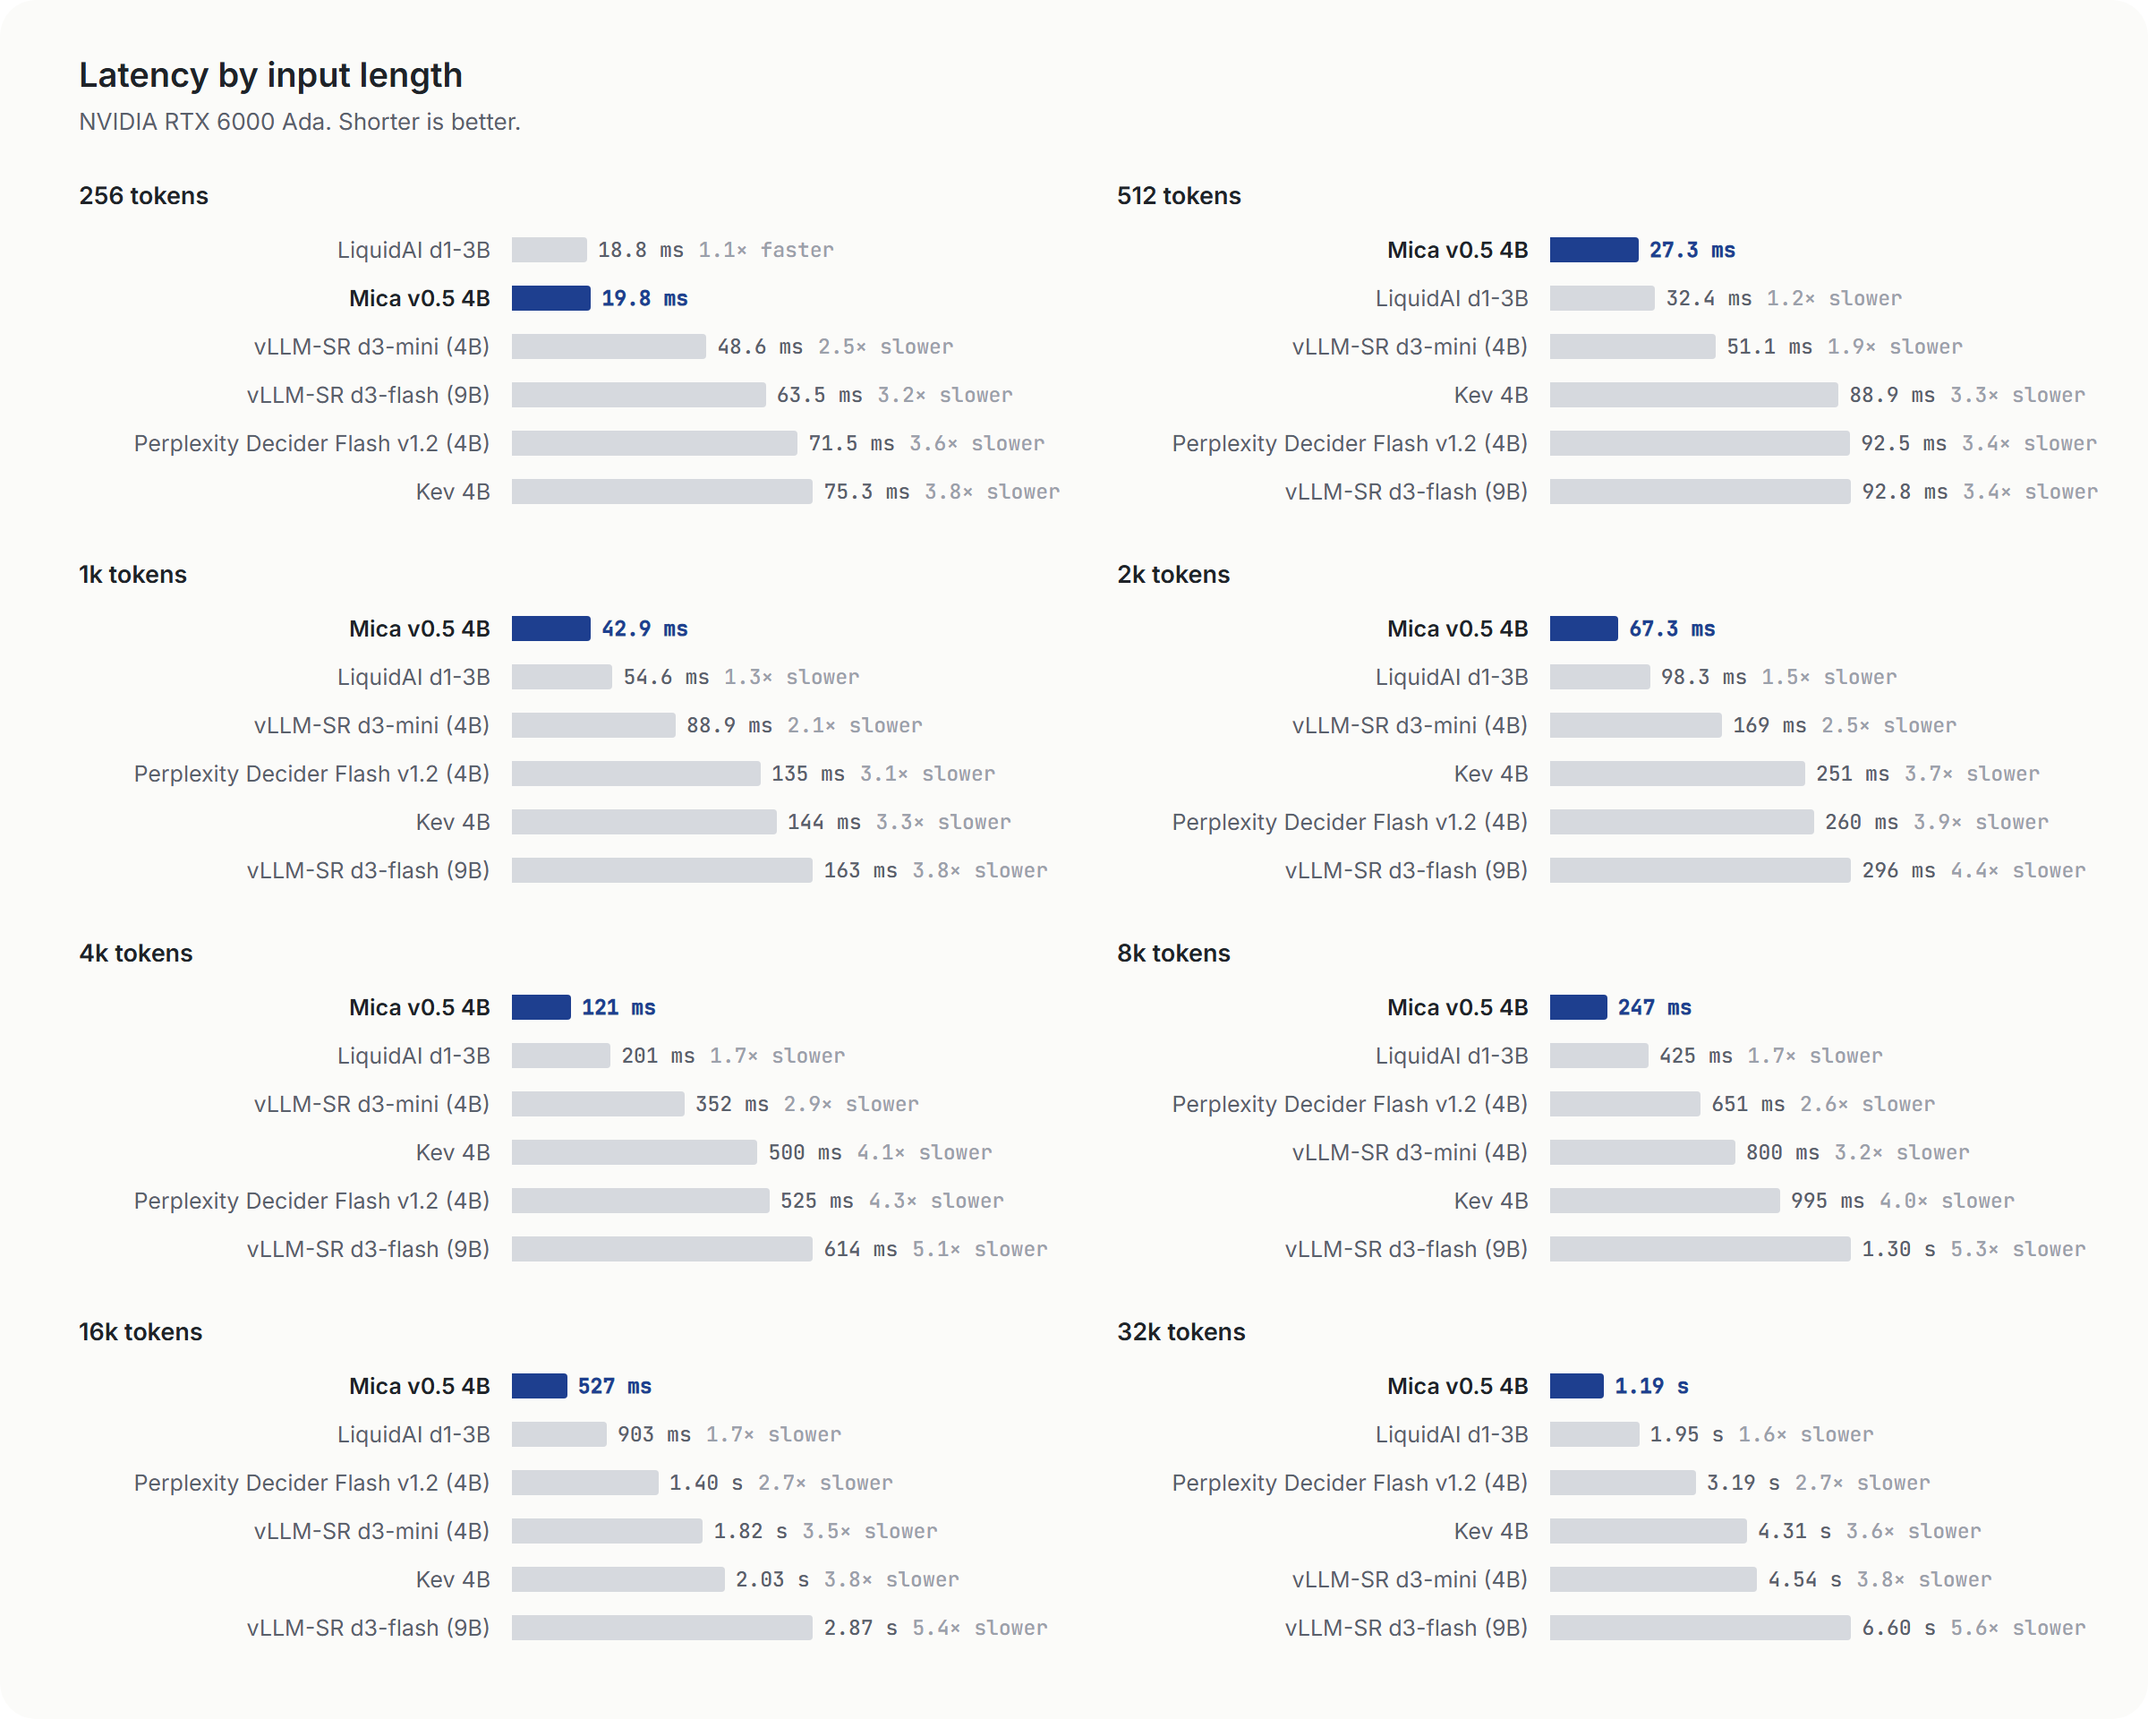
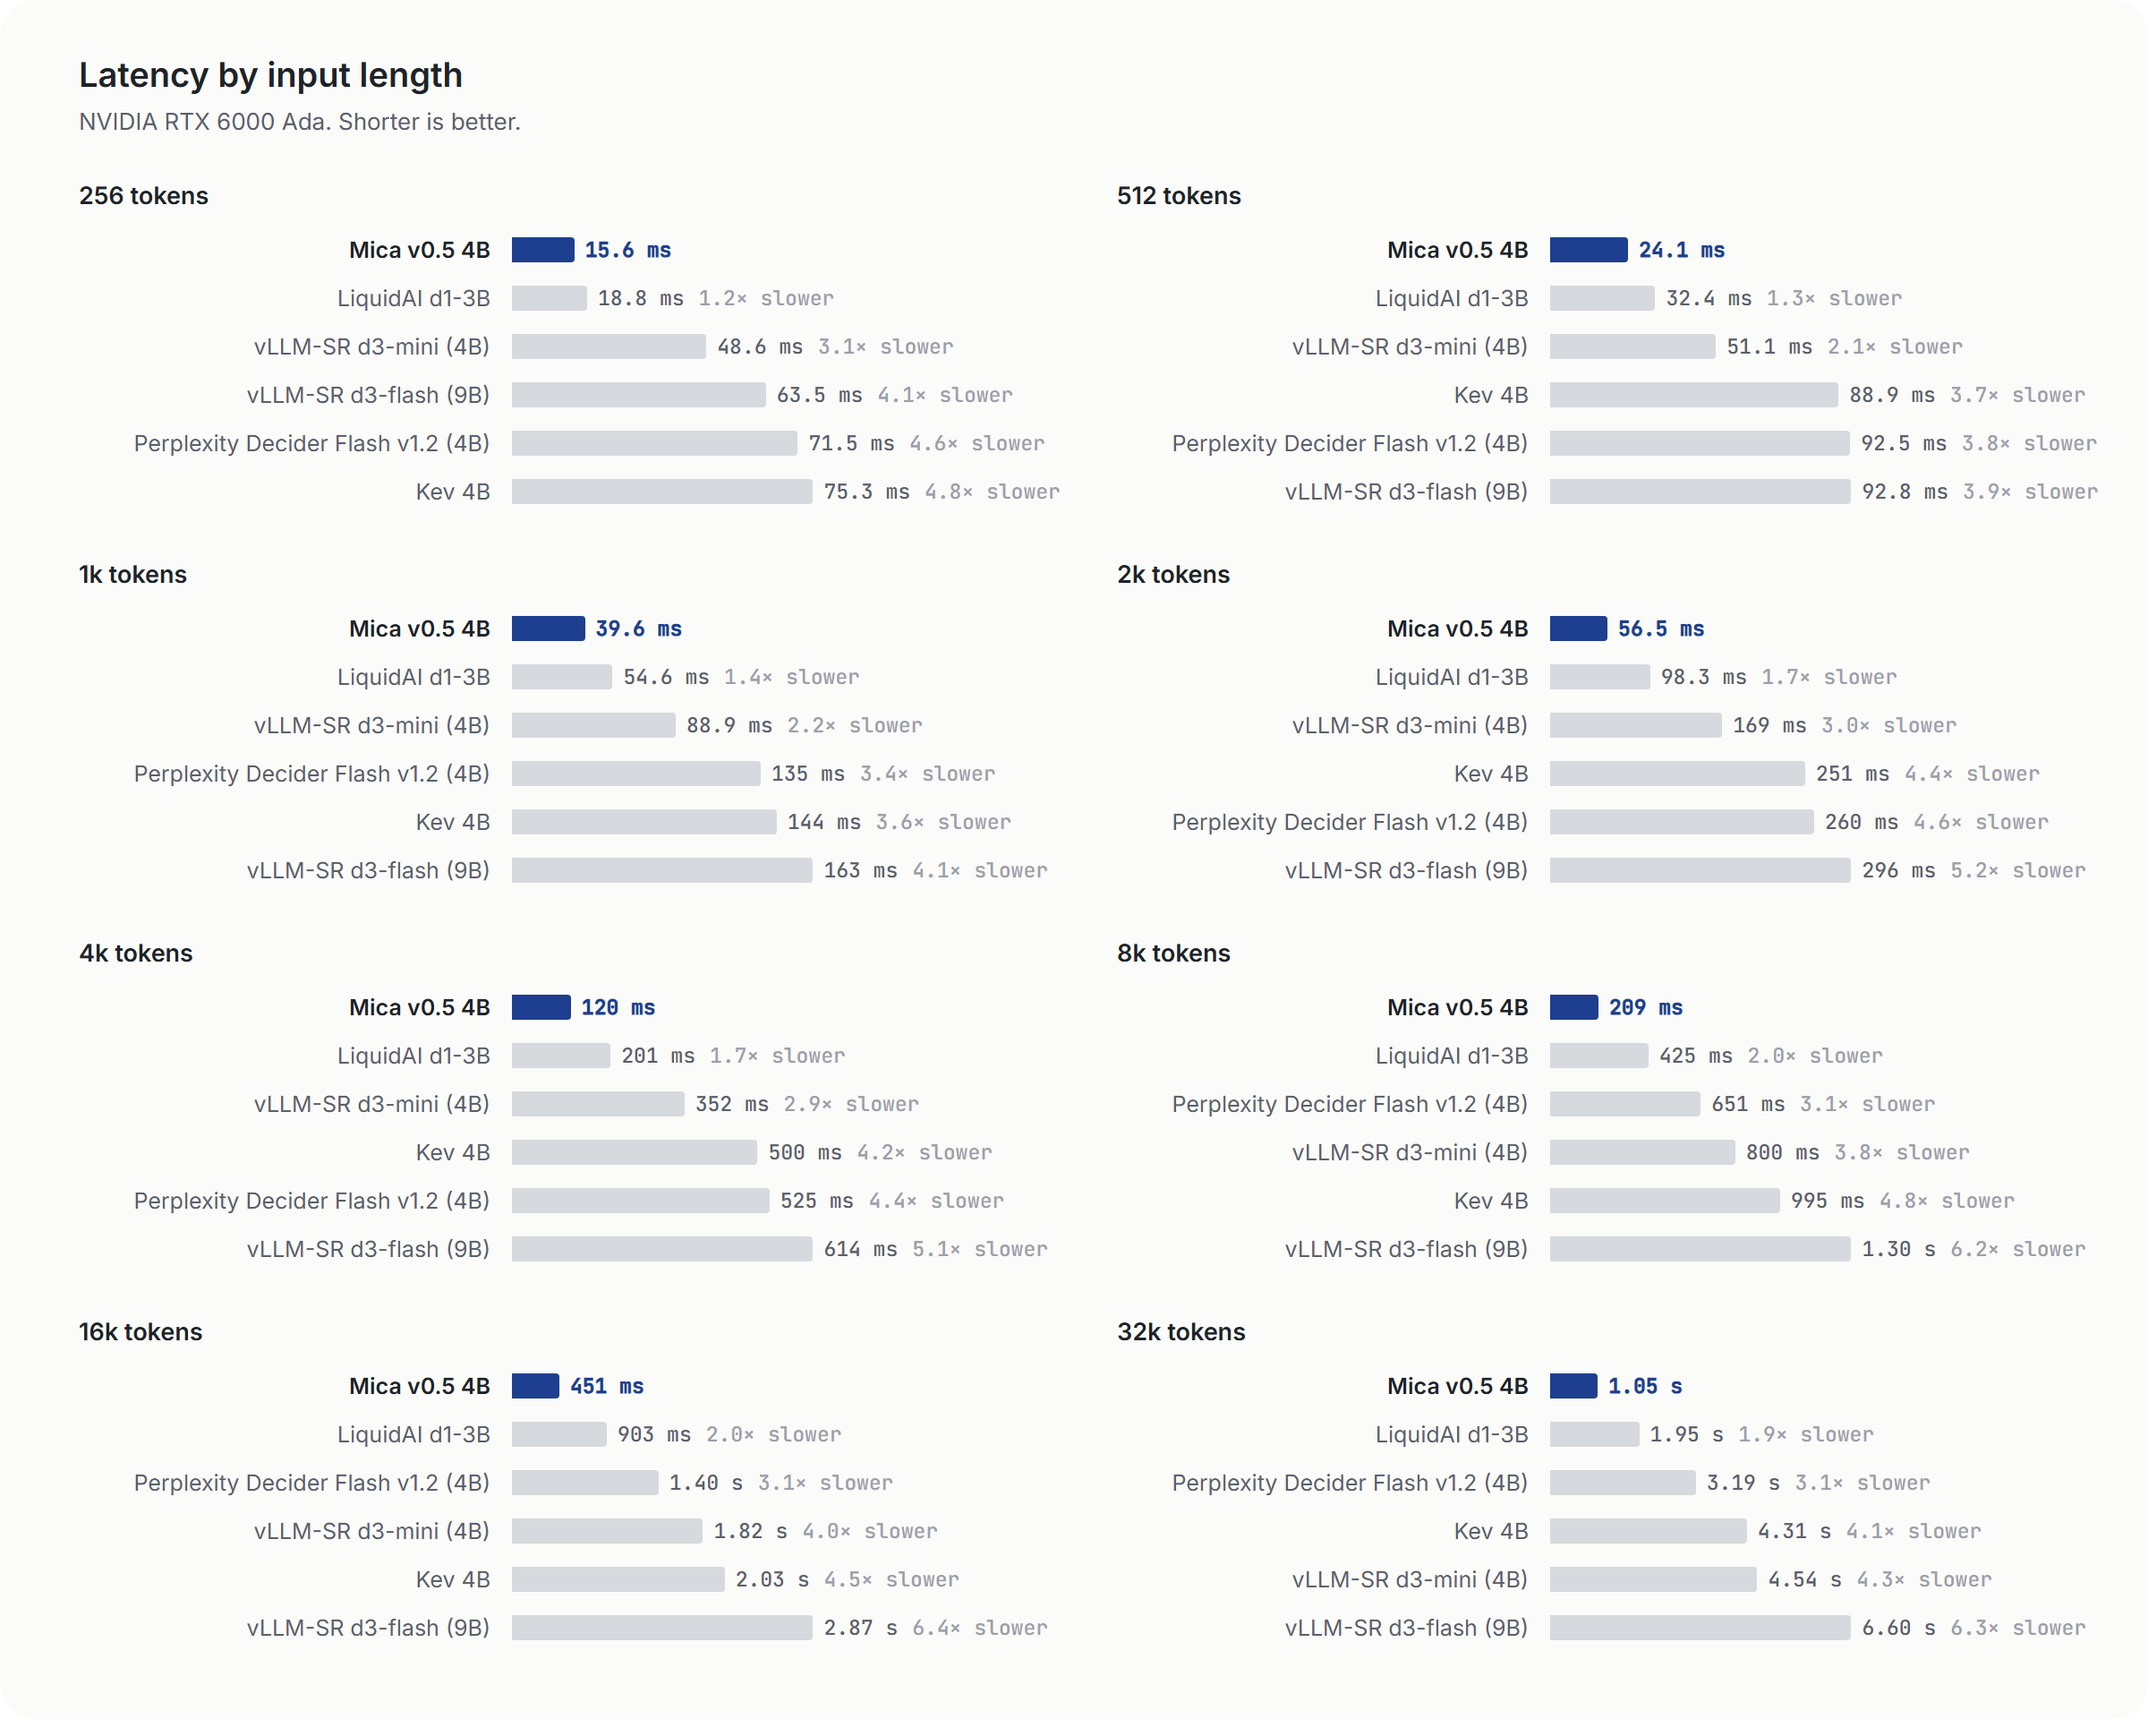
README: speed numbers from the released runtime
Latency table and charts now use the 0eecf32 runtime measured with the
same tool as the other models on one RTX 6000 Ada: 15.6 ms at 256
tokens (was 19.8), 1,046 ms at 32k (was 1,186). Start-time sentence
updated to the measured range.

diff --git a/README.md b/README.md
@@ -98,7 +98,7 @@ Linux commands above in WSL2.
 
 INT8 runs on compute capability 8.0 and newer (RTX 30/40/50 series, RTX A-series and Ada workstation cards, L4, L40S,
 A100, H100, H200, B200); other GPUs fall back to bfloat16 by themselves. The first start downloads the INT8 weights (about
-4.9 GB) into `--state-dir` (default `~/.cache/mica_runtime`; `--model` points at weights you already have), loads the kernel settings shipped for common GPUs (`--kernel-tune pinned`, the default; `full` tunes every kernel on this GPU instead), printing each stage, and saves its state there. The server answers as soon as it prints `Ready`; CUDA graphs are then captured in the background while it is idle, and until they are ready a request can wait up to about 0.7 s. On a GPU without shipped settings it starts with the closest GPU's settings and, after 30 s idle, tunes one kernel at a time for this GPU and saves the result. On an RTX 6000 Ada the first start took 26 s after the download and later starts with the same `--state-dir` 14 s, so keep `--state-dir` on a persistent disk. Kernel compilation is CPU-bound, so a host whose CPU is shared and fully loaded starts much more slowly. The longest input is
+4.9 GB) into `--state-dir` (default `~/.cache/mica_runtime`; `--model` points at weights you already have), loads the kernel settings shipped for common GPUs (`--kernel-tune pinned`, the default; `full` tunes every kernel on this GPU instead), printing each stage, and saves its state there. The server answers as soon as it prints `Ready`; CUDA graphs are then captured in the background while it is idle, and until they are ready a request can wait up to about 0.7 s. On a GPU without shipped settings it starts with the closest GPU's settings and, after 30 s idle, tunes one kernel at a time for this GPU and saves the result. On an RTX 6000 Ada the first start takes about 25–35 s after the download and later starts with the same `--state-dir` about 14 s, so keep `--state-dir` on a persistent disk. Kernel compilation is CPU-bound, so a host whose CPU is shared and fully loaded starts much more slowly. The longest input is
 set from the GPU's memory (the GPU table lists it). For bfloat16 from the full weights, download
 `model.safetensors*`, `*.json`, `*.jinja` and `*.txt` and run with `--model weights --w8a8 off`.
 
